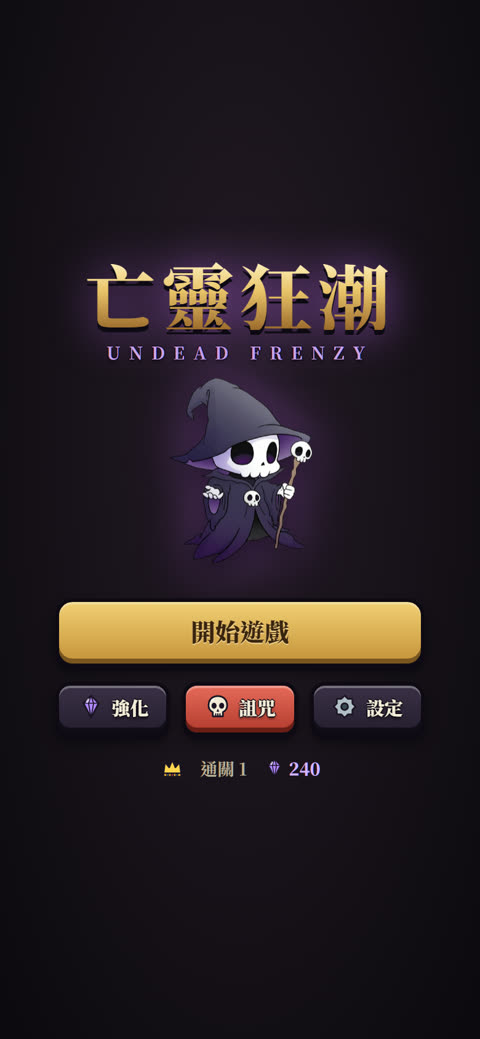
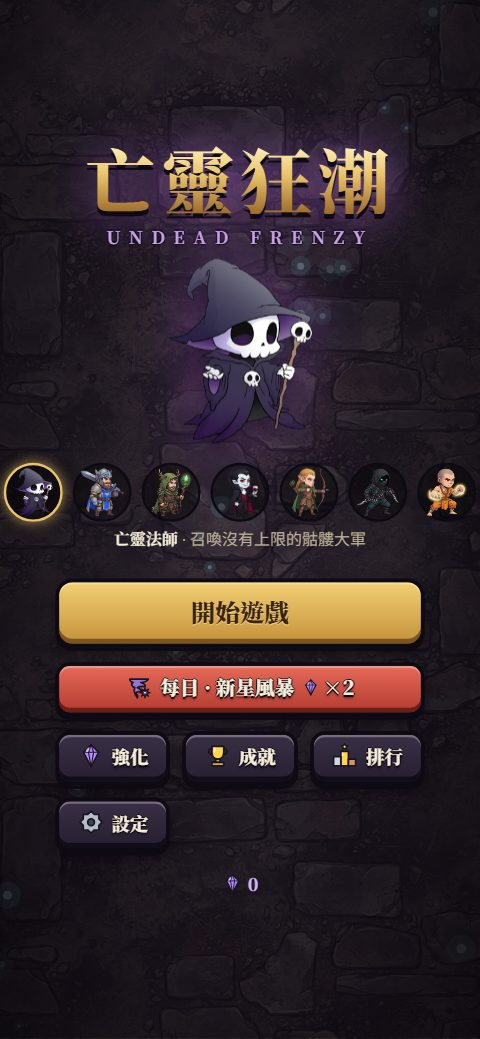
README 更新成七個職業的版本，截圖換新
- 新增「七個職業」：立繪、稱號、玩法一句話、大招、解鎖條件
- 法師→主角、召喚物→手下，操作改成底部三張卡與大招鈕
- 數字照現在的遊戲：175 種祝福、35 流派、28 種傳說、253 個成就
- 補上三種祭壇、寶棺開箱、墓碑方位、上榜煙火、戰鬥中紅色只代表危險
- 截圖從 4 張換成 8 張：標題、法師、戰士、德魯伊、吸血鬼、精靈、首領、祝福三選一

Changed region(s): [[0.0, 0.0924, 0.875, 0.8316], [0.875, 0.4312, 0.9688, 0.4928], [0.4688, 0.8316, 0.5312, 0.8624]]

diff --git a/README.md b/README.md
@@ -4,7 +4,7 @@
 
 # 亡靈狂潮 · Undead Frenzy
 
-**召喚沒有上限的骷髏大軍，撐過 50 波怪物浪潮。**
+**七個職業、七套完全不同的打法，撐過 50 波怪物浪潮。**
 
 打開瀏覽器就能玩，手機、電腦都可以，不用安裝；想要的話也能裝成 App，全螢幕、沒網路也能玩。
 
@@ -14,9 +14,14 @@
 
 <br/><br/>
 
-<img src="docs/title.jpg" width="23%" alt="標題畫面" />
-<img src="docs/battle.jpg" width="23%" alt="上百隻召喚物混戰" />
-<img src="docs/boss.jpg" width="23%" alt="最終首領墮落亡靈王" />
+<img src="docs/title.jpg" width="23%" alt="標題畫面：七個職業" />
+<img src="docs/battle.jpg" width="23%" alt="亡靈法師：上百隻骷髏、怨靈、眼魔混戰" />
+<img src="docs/warrior.jpg" width="23%" alt="戰士：盾兵、長槍兵、弩手排成陣型" />
+<img src="docs/druid.jpg" width="23%" alt="德魯伊：橡樹林地與熊群" />
+<br/>
+<img src="docs/vampire.jpg" width="23%" alt="吸血鬼：入夜後的蝠群與眷屬" />
+<img src="docs/elf.jpg" width="23%" alt="精靈弓箭手：邊退邊射，夥伴跟在身邊" />
+<img src="docs/boss.jpg" width="23%" alt="最終首領墮落亡靈王與戰士的陣型" />
 <img src="docs/draft.jpg" width="23%" alt="祝福三選一" />
 
 </div>
@@ -25,9 +30,9 @@
 
 ## 一局怎麼玩
 
-1. **打怪撿靈魂**：法師會自動對附近的怪射靈魂彈；怪物死掉會噴出靈魂，走過去就會吸過來
-2. **召喚與升級**：用靈魂召喚骷髏、怨靈、眼魔，或把同一種全部升一級。同種兵越多，再召喚一隻就越貴，兵多了就該升級
-3. **挑祝福還是保命**：每 3 波和每隻首領之後，從三張祝福裡挑一張變強；但波與波之間法師和召喚物都不會回血，血太少時可以放棄祝福、把法師的血補滿
+1. **打怪撿靈魂**：主角會自動攻擊附近的怪；怪物死掉會噴出靈魂，走過去就會吸過來
+2. **用底部三張卡變強**：每個職業有自己的三張卡，召喚手下、招募士兵、修練功夫……把靈魂花在哪裡就是你的打法
+3. **挑祝福還是保命**：每 3 波和每隻首領之後，從三張祝福裡挑一張變強；但波與波之間不會回血，血太少時可以放棄祝福、把主角的血補滿
 4. **撐到第 50 波**：每 10 波一隻首領，最後是墮落亡靈王。打贏可以收工，也可以繼續挑戰無盡模式
 5. **變強再來**：結束時依撐過的波數拿靈魂結晶，換成下一局也有效的永久強化
 
@@ -35,29 +40,26 @@
 
 <br/>
 
-## 你的亡靈大軍
+## 七個職業
+
+每個職業都改掉一兩條核心規則，再配一個看得見的代價：戰力從哪來、靈魂拿去做什麼、每一秒在操心什麼，都不一樣。一開始只有亡靈法師，其他六個靠成就解鎖。
 
 <table>
   <tr>
-    <td align="center" width="33%">
-      <img src="skeleton_warrior.png" width="96" alt="" /><br/>
-      <b>骷髏</b><br/>
-      <sub>近戰主力，便宜又耐打</sub>
-    </td>
-    <td align="center" width="33%">
-      <img src="wraith.png" width="96" alt="" /><br/>
-      <b>怨靈</b><br/>
-      <sub>光環讓周圍敵人變慢，死掉時爆炸</sub>
-    </td>
-    <td align="center" width="33%">
-      <img src="eye_monster.png" width="96" alt="" /><br/>
-      <b>眼魔</b><br/>
-      <sub>遠程射擊，躲在後排輸出</sub>
-    </td>
+    <td align="center" width="25%"><img src="player.png" width="88" alt="" /><br/><b>亡靈法師</b><br/><sub>召喚沒有上限的骷髏大軍<br/>大招：新星</sub></td>
+    <td align="center" width="25%"><img src="warrior.png" width="88" alt="" /><br/><b>戰士</b> · 鐵血軍團長<br/><sub>少數精兵排成陣型，自己站最前線<br/>大招：標槍齊射<br/>🔓 撐過第 20 波</sub></td>
+    <td align="center" width="25%"><img src="druid.png" width="88" alt="" /><br/><b>德魯伊</b> · 橡樹賢者<br/><sub>種下橡樹，在自己選的林地打這一仗<br/>大招：巨熊化身<br/>🔓 累計啟動 30 座戰場遺跡</sub></td>
+    <td align="center" width="25%"><img src="vampire.png" width="88" alt="" /><br/><b>吸血鬼</b> · 血月伯爵<br/><sub>血就是錢，打倒的怪站起來為你而戰<br/>大招：血月降臨<br/>🔓 一局立下 3 份契約</sub></td>
+  </tr>
+  <tr>
+    <td align="center"><img src="elf_archer.png" width="88" alt="" /><br/><b>精靈弓箭手</b> · 風行者<br/><sub>邊退邊回頭射，停下來就變弱<br/>大招：箭雨<br/>🔓 打倒墮落亡靈王</sub></td>
+    <td align="center"><img src="rogue.png" width="88" alt="" /><br/><b>刺客</b> · 阿拉穆特之影<br/><sub>潛進怪堆，刺殺標記的目標<br/>大招：斬首<br/>🔓 累計打倒 500 隻精英怪</sub></td>
+    <td align="center"><img src="monk.png" width="88" alt="" /><br/><b>武僧</b> · 少林拳師<br/><sub>沒有手下，連擊就是一切<br/>大招：十八羅漢陣<br/>🔓 連殺 1000</sub></td>
+    <td></td>
   </tr>
 </table>
 
-升到 **Lv10／25／50** 會進化：體型變大、換顏色，還會學會爆擊、彈射、脈衝之類的新能力。
+每個職業都有自己的普攻、三張卡、大招、五個專屬流派、3 張專屬傳說祝福、專屬成就與最快通關紀錄，連走到戰場遺跡上的反應都不一樣。手下的兵升到 **Lv10／25／50** 會進化：體型變大、換顏色、多一個新能力。
 
 <br/>
 
@@ -72,28 +74,30 @@
     <td align="center" width="33%"><img src="witch_doctor.png" width="72" alt="" /><br/><b>腐骨巫醫</b><br/><sub>會幫怪物補血，先殺牠</sub></td>
   </tr>
   <tr>
-    <td align="center"><img src="bat.png" width="72" alt="" /><br/><b>吸血蝙蝠群</b><br/><sub>直撲法師</sub></td>
-    <td align="center"><img src="shield_guard.png" width="72" alt="" /><br/><b>骨盾衛兵</b><br/><sub>盾牌擋飛彈，要靠骷髏近戰</sub></td>
+    <td align="center"><img src="bat.png" width="72" alt="" /><br/><b>吸血蝙蝠群</b><br/><sub>直撲主角</sub></td>
+    <td align="center"><img src="shield_guard.png" width="72" alt="" /><br/><b>骨盾衛兵</b><br/><sub>盾牌擋飛彈，要靠近戰打破</sub></td>
     <td align="center"><img src="corpse_worm.png" width="72" alt="" /><br/><b>屍蟲</b><br/><sub>從地底鑽出，紅圈出現就走開</sub></td>
   </tr>
   <tr>
-    <td align="center"><img src="grave_priest.png" width="72" alt="" /><br/><b>墓地祭司</b><br/><sub>把陣亡的召喚物變成敵人</sub></td>
+    <td align="center"><img src="grave_priest.png" width="72" alt="" /><br/><b>墓地祭司</b><br/><sub>把陣亡的手下變成敵人</sub></td>
     <td align="center"><img src="bloater.png" width="72" alt="" /><br/><b>腐屍</b><br/><sub>貼近後膨脹自爆，趁膨脹時打掉</sub></td>
     <td align="center"><img src="thief.png" width="72" alt="" /><br/><b>金魂竊賊</b><br/><sub>一直逃跑，追到能拿大量靈魂</sub></td>
   </tr>
   <tr>
-    <td align="center"><img src="blood_eye.png" width="72" alt="" /><br/><b>血瞳</b><br/><sub>隔著大軍朝法師射血彈，走動就躲得掉</sub></td>
-    <td align="center"><img src="gargoyle.png" width="72" alt="" /><br/><b>腐翼石像鬼</b><br/><sub>會飛，骷髏打不到，專撲眼魔</sub></td>
+    <td align="center"><img src="blood_eye.png" width="72" alt="" /><br/><b>血瞳</b><br/><sub>隔著人牆朝主角射血彈，走動就躲得掉</sub></td>
+    <td align="center"><img src="gargoyle.png" width="72" alt="" /><br/><b>腐翼石像鬼</b><br/><sub>會飛，近戰打不到，專撲遠程</sub></td>
     <td align="center"><img src="soul_devourer.png" width="72" alt="" /><br/><b>吞魂者</b><br/><sub>搶吃地上的靈魂，越吃越大</sub></td>
   </tr>
   <tr>
-    <td align="center"><img src="tombstone.png" width="72" alt="" /><br/><b>招魂墓碑</b><br/><sub>在畫面外一直冒小怪，帶大軍去拆有大獎</sub></td>
+    <td align="center"><img src="tombstone.png" width="72" alt="" /><br/><b>招魂墓碑</b><br/><sub>在遠處一直冒小怪，畫面邊緣標出方位，帶人去拆有大獎</sub></td>
     <td></td>
     <td></td>
   </tr>
 </table>
 
 還有往你腳下丟毒池的瘟疫投手，以及第 21 波起帶詞綴的精英怪：綠光環繞的打死會分裂，腳下冒火的殘血會暴走。
+
+戰鬥畫面上，**紅色只代表危險**：敵人的攻擊、預警圈、低血量都是紅的，自己人的攻擊和特效一律不用紅，一眼就分得出要不要躲。
 
 <br/>
 
@@ -115,18 +119,21 @@
 
 ## 讓每一局都不一樣
 
-- **21 種祝福**：可以重複疊層，例如全押眼魔多重射擊、讓法師一次射好幾顆靈魂彈，或讓擊殺的怪物復活成骷髏
-- **流派共鳴**：祝福分成骷髏、眼魔、怨靈、法師、靈魂五個流派，同流派疊到 3 層、6 層各觸發一次共鳴（骨潮、千眼、冥域……）；抽卡會偏向你已經在走的流派，看不上的祝福可以放逐，三張都不要就跳過換一筆靈魂。重抽是整局共用的次數（開局 2 次，每打倒一隻首領補 1 次），省著用
-- **10 種傳說祝福**：打倒首領後的三選一必有一張金框傳說，平常偶爾也會冒出來。每一種都能撐起一套打法：每 8 隻骷髏出一隻巨人、眼魔的彈連跳、新星凍住全場、擊殺精英就重置新星、法師吸靈魂回血……
-- **6 種契約**：第 6 波起偶爾冒出一張暗紅色的契約卡，好處很大、壞處跟著整局，例如召喚物傷害 +50% 但法師血量 -30%、靈魂掉落 +50% 但怪物血量 +25%
-- **戰場遺跡**：開戰後畫面外不時冒出一座遺跡，畫面邊緣有箭頭指路，外圈是它還能撐多久的倒數（可以跨好幾波）。帶著大軍走過去站上去：戰鼓祭壇讓大軍狂暴 12 秒、靈泉回血（越殘越常出現，喝不完下次再來）、封印寶棺開出一大筆靈魂，有時多送一次祝福。中期起有時兩座同時出現在相反方向，走進一座、另一座就崩塌
+- **175 種祝福、35 個流派**：每個職業五個專屬流派，加上所有職業共用的靈魂流派。祝福可以重複疊層，同流派疊到 3 層、6 層各觸發一次共鳴；抽卡會偏向你已經在走的流派，看不上的祝福可以放逐，三張都不要就跳過換一筆靈魂。重抽是整局共用的次數（開局 2 次，每打倒一隻首領補 1 次），省著用
+- **28 種傳說祝福**：打倒首領後的三選一必有一張金框傳說，平常偶爾也會冒出來。每一種都能撐起一套打法：每 8 隻骷髏出一隻巨人、老兵陣亡後下一波歸隊、新星凍住全場……
+- **6 種契約**：第 6 波起偶爾冒出一張契約卡，好處很大、壞處跟著整局，例如手下傷害 +50% 但主角血量 -30%、靈魂掉落 +50% 但怪物血量 +25%
+- **戰場遺跡**：開戰後遠處不時冒出一座遺跡，畫面邊緣有箭頭指路，外圈是它還能撐多久的倒數（可以跨好幾波）。帶著隊伍走過去站上去：
+  - **祭壇**：頭上的圖示和地上圈的顏色直接告訴你是哪一種：戰鼓祭壇讓大軍狂暴、護佑祭壇讓你 10 秒內受傷減半、遲滯祭壇讓全場怪物變慢
+  - **靈泉**：回血，越殘越常出現，喝不完下次再來
+  - **封印寶棺**：開出一大筆靈魂、一張祝福，或讓隨機一種手下直接升 2 級
+  - 中期起有時兩座同時出現在相反方向，走進一座、另一座就崩塌
 - **波次事件**：血月、精英潮、狂暴、腐屍狂潮、金魂竊賊，不定期出現。一波拖超過 2 分鐘會「怨氣沸騰」：先倒數 15 秒，之後怪越來越快、越來越痛，不會被追著繞圈好幾分鐘
 - **連殺**：一直殺不停，靈魂掉得越多
-- **排行榜**：綜合榜和每個職業各留前十名，通關的照通關時間排、沒通關的照撐到第幾波排。一開始榜上是十位亡靈議會的對手，從第 7 波排到 21 分半通關，戰鬥中撐過誰的紀錄畫面就會喊出來；打完首領波會告訴你比自己最快的那次快還是慢，結算時寫著再撐幾波能超越下一個人。上榜時跳出恭喜並請你留名字，點一筆可以看那局的擊殺、祝福等細節（紀錄存在這台裝置上）
-- **永久強化**：剛開始沒強化很難打倒亡靈王，一局一局變強直到通關。每撐過一波、每打倒一隻首領都會拿到靈魂結晶（畫面右上角看得到這局賺了多少），換全軍傷害、主角與召喚物血量、大招冷卻、倒下時復活一次、多一張祝福可選等 11 種強化，七個職業都吃得到；第一局拿到的就買得起好幾級。隨時可以免費全部退還、換一套搭配
+- **排行榜**：綜合榜和每個職業各留前十名，通關的照通關時間排、沒通關的照撐到第幾波排。一開始榜上是十位亡靈議會的對手，戰鬥中撐過誰的紀錄畫面就會喊出來；打完首領波會告訴你比自己最快的那次快還是慢，結算時寫著再撐幾波能超越下一個人。上榜時放煙火、依成績說一句祝賀詞（新榜首、通關、職業第一、超越對手……），再請你留名字；點一筆可以看那局的擊殺、祝福等細節（紀錄存在這台裝置上）
+- **永久強化**：剛開始沒強化很難打倒亡靈王，一局一局變強直到通關。每撐過一波、每打倒一隻首領都會拿到靈魂結晶（畫面右上角看得到這局賺了多少），換傷害、主角與手下血量、大招冷卻、倒下時復活一次、多一張祝福可選等 11 種強化，七個職業都吃得到；第一局拿到的就買得起好幾級。隨時可以免費全部退還、換一套搭配
 - **詛咒**：通關後解鎖，共 8 級，每級多一條規則，結晶也拿得更多
-- **每日變異**：每天換一條特殊規則，像是只能召喚眼魔、每一波都是血月、法師血量只剩四分之一但傷害加倍。當天第一場的結晶 ×2
-- **147 個成就**：分成征途、無盡、詛咒、首領、怪物圖鑑、大軍、共鳴、傳說、契約、連殺、遺跡、每日、生涯、挑戰、傳承 15 類，每個都有自己的圖示。有每局都摸得到的（撐過第 5 波、連殺 100），也有要玩很久的（累計打倒 100 萬隻怪）和刁鑽的（只召喚怨靈通關、一次新星都不放通關）。第一次達成就送結晶
+- **每日變異**：每天換一條特殊規則，像是只能召喚眼魔、每一波都是血月、主角血量只剩四分之一但傷害加倍。當天第一場的結晶 ×2
+- **253 個成就**：分成征途、無盡、詛咒、首領、圖鑑、大軍、共鳴、傳說、契約、連殺、遺跡、每日、生涯、挑戰、職業、傳承 16 類，每個都有自己的圖示。有每局都摸得到的（撐過第 5 波、連殺 100），也有要玩很久的（累計打倒 100 萬隻怪）和刁鑽的（只召喚怨靈通關、一次新星都不放通關）；每個職業另有 12 個專屬成就。第一次達成就送結晶
 
 <br/>
 
@@ -135,9 +142,9 @@
 | | 手機 | 鍵盤 |
 | :--- | :--- | :--- |
 | 移動 | 在畫面任何地方按住拖曳，拉越遠走越快 | WASD／方向鍵 |
-| 召喚 | 點或長按「召喚」 | 1 骷髏・2 怨靈・3 眼魔 |
+| 底部三張卡（召喚、招募、修練…） | 點或長按卡片上的按鈕 | 1／2／3 |
 | 升級 | 點或長按「升級」 | Shift + 1／2／3 |
-| 死亡新星（炸開身邊的敵人、大軍狂暴 4 秒、吸走滿地靈魂） | 點右下角「新星」 | 空白鍵 |
+| 大招 | 點右下角的大招鈕 | 空白鍵 |
 | 選祝福 | 點卡片 | 1／2／3（／4） |
 | 提早開戰 | 波次之間點「開戰」 | |
 | 暫停 | 點「暫停」或手機的返回鍵 | Esc／P |
@@ -149,11 +156,11 @@
 ## 小技巧
 
 - **升級鈕發金光就升級**：代表這時候升一級比多召喚划算，兵越多越值得升
-- **大戰正熱時放新星**：大軍攻速暴增、滿地靈魂一口氣吸回來；但被包圍時它也是救命招，別全拿去進攻。冷卻好時按鈕會發光
-- **骷髏擋前面、眼魔打後面**：骨盾衛兵和牠腳下那圈裡的怪，眼魔完全打不動，要派骷髏衝進去（法師的靈魂彈打得穿）
+- **大招留給最需要的時候**：混戰正熱時放能一口氣扭轉戰局，被包圍時也是救命招，別全拿去進攻。冷卻好時按鈕會發光
+- **近戰擋前面、遠程打後面**：骨盾衛兵和牠腳下那圈裡的怪，飛彈打不動，要派近戰衝進去
 - **巫醫和祭司優先處理**，放著不管怪物會越打越多
-- **遺跡要整支軍隊一起去**：法師自己跑過去很容易被包圍；先清出一條路，讓大軍跟上再站上去
-- 法師本身很脆，**邊走邊打**比站著不動安全
+- **遺跡先看頭上的圖示再決定要不要去**：需要保命就去護佑、被追著打就去遲滯；整支隊伍一起過去，主角自己跑過去很容易被包圍
+- 主角大多很脆，**邊走邊打**比站著不動安全
 
 <br/>
 
